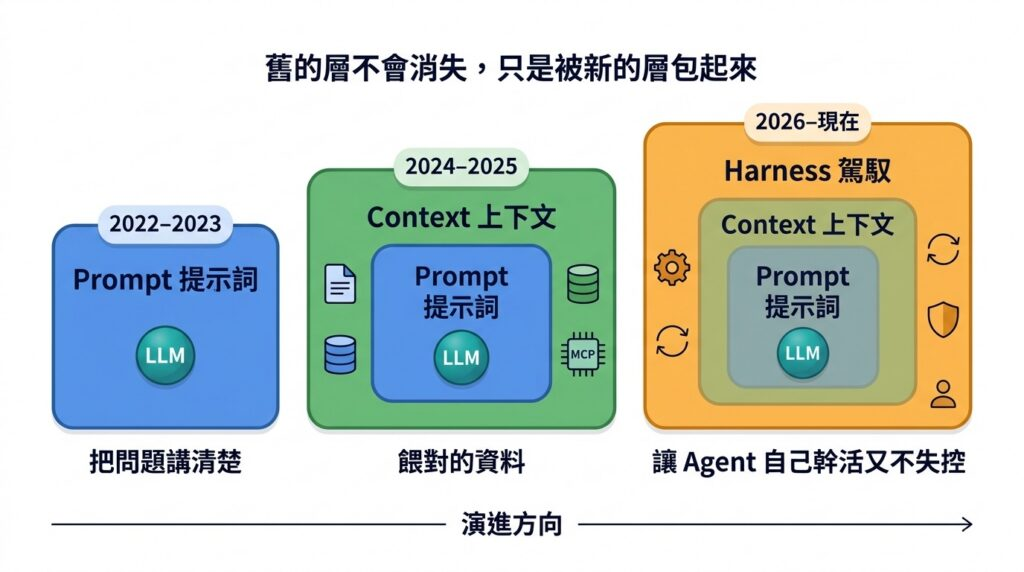
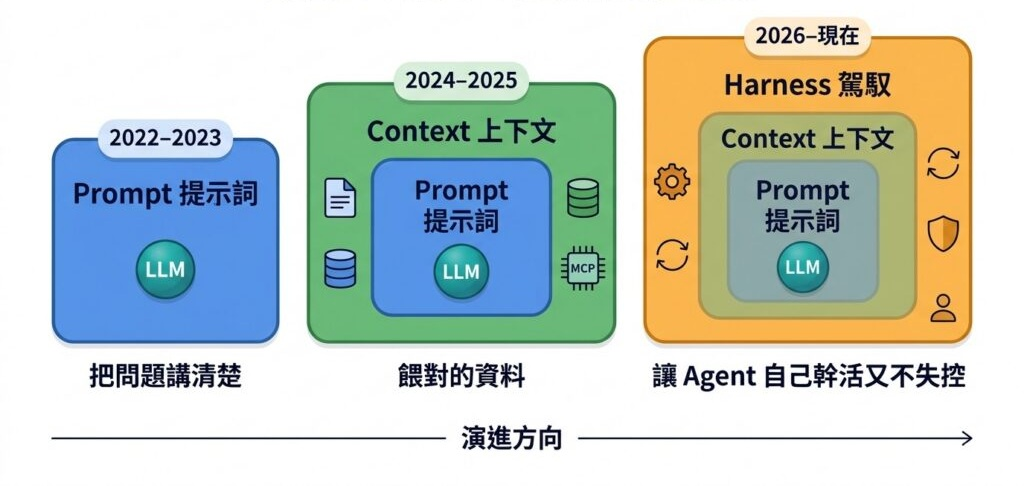
Refine class00

diff --git a/Class00_Handout.html b/Class00_Handout.html
@@ -37,22 +37,22 @@
 
 <h2>為什麼有些工程師離不開 AI，而有些還覺得沒用？</h2><div class="slide-body">
 
-<p>請先問問自己，以下哪個觀點你認同？</p>
+<p>你是否有以下的想法與疑惑？</p>
 <ul>
 <li>AI 會幻覺，所以還不能信任</li>
-<li>AI 輸出不穩定，所以結果靠運氣</li>
+<li>AI 輸出不穩定，所以成果靠運氣</li>
 <li>AI 就是聊天，不需要特別學</li>
-<li>想 Prompt 比自己寫還花時間</li>
+<li>AI 是來搶我工作的</li>
 </ul>
 <hr style="margin: 20px 0; border-color: var(--border-color);"/>
-<p><strong>🔑 核心觀念：心智模型演進</strong></p>
+<p><strong>🔑 心智模型須隨著AI發展演進</strong></p>
 <div class="comparison-grid" style="margin-top: 15px;">
 <div class="comparison-card" style="padding: 15px;">
-<h3 style="text-align: center;">2024 年</h3>
+<h3 style="text-align: center;">2024 年以前</h3>
 <p style="text-align: center;">模型參數量受限，僅依賴訓練資料。<br/>缺乏獲取外在資訊的手段，<br/><strong>幻覺嚴重，且幾乎只能聊天。</strong></p>
 </div>
 <div class="comparison-card highlight-card" style="padding: 15px;">
-<h3 style="text-align: center;">2026 年</h3>
+<h3 style="text-align: center;">2025 年以後</h3>
 <p style="text-align: center;">基礎設施成熟，模型能力差異縮小。<br/>模型本身的影響逐漸降低，<br/><strong>成效關鍵轉移至使用者身上。</strong></p>
 </div>
 </div>
@@ -74,12 +74,12 @@
 <li>網路封包遺失</li>
 <li>垃圾輸入資料等</li>
 </ul>
-<p style="color: var(--primary-color); margin-top: 20px;"><em>👉 未來課程重點：如何驗證 AI 的產出。</em></p>
+<p style="color: var(--primary-color); margin-top: 20px;"><em>👉 未來核心課題：如何驗證與保證 AI 的產出。</em></p>
 </div></div>
 <!-- Slide 3: Misconception 2 -->
 <div class="card top-title-layout" id="slide3">
 
-<h2>誤解二： AI 非確定性，所以結果靠運氣</h2><div class="slide-body">
+<h2>誤解二： AI 非確定性，所以品質看運氣</h2><div class="slide-body">
 
 <p>我們習慣「Input ➔ Output 永遠一致」。但如果把需求丟給三個資深工程師，其實也會得到三種不同解法。</p>
 <blockquote style="margin: 15px 0;">
@@ -98,9 +98,11 @@
 
 <h2>誤解三： AI 就是聊天，不需要學</h2><div class="slide-body">
 
-<p>AI 的介面看起來太簡單了（輸入中文 ➔ 拿到答案）。</p>
-<p>如果真的只是聊天，為什麼同一個模型，有人效率提升數倍，有人覺得根本沒用？</p>
-<p><strong>差異通常不在模型，而在使用者。</strong></p>
+<p>AI 的介面看起來太簡單了（輸入自然語言 ➔ 拿到答案）。但如果真的只是聊天，為什麼同一個模型，有人效率提升數倍，有人覺得根本沒用？</p>
+<blockquote style="margin: 15px 0;">
+<p><strong>工程師需要用工程思維去使用AI</strong></p>
+<p><s>跟AI聊天已經是連你阿嬤都會的技能了</s></p>
+</blockquote>
 <div style="text-align: center; margin-top: 20px;">
 <img src="Resources/Images/PromptContextHarness.jpeg" alt="超越 Prompt Engineering，學習 Context Engineering" style="max-height: 380px; max-width: 100%; border-radius: 8px;"/>
 </div>
@@ -108,7 +110,7 @@
 <!-- Slide 5: Misconception 4 -->
 <div class="card top-title-layout" id="slide5">
 
-<h2>誤解四： 想 Prompt 比自己做還慢</h2><div class="slide-body">
+<h2>誤解四： 寫Prompt、AI執行都需要時間，比自己做還慢</h2><div class="slide-body">
 
 <p>隱含錯誤假設：<strong>AI 的工作模式應該跟人類一模一樣</strong>。</p>
 <p>事實上，AI 特別擅長：</p>
@@ -119,6 +121,7 @@
 <li><strong>多個 AI Agent 同時執行不同任務</strong></li>
 </ul>
 <p>找一個自己已經知道答案的問題考 AI，就像找怪手來跟你比拿筷子。</p>
+<p>思考自己是否用錯方法，有沒有用在對的地方。</p>
 </div></div>
 <!-- Slide 6: Misconception 5 -->
 <div class="card comparison-layout" id="slide6">
@@ -127,17 +130,23 @@
 
 <p>AI 不是要取代原有工作流程或我們的工作，而是要來替原本的工作<strong>提升價值與效率</strong>。</p>
 
-<div class="comparison-grid" style="margin-top: 20px;">
+<div style="display: flex; justify-content: center; align-items: center; margin-top: 15px; gap: 40px; font-size: 3.5em; color: var(--accent-color); font-weight: bold;">
+<span>↙</span>
+<img src="Resources/Images/naruto-normal.png" alt="正常狀態" style="max-height: 110px; border-radius: 8px; object-fit: cover; box-shadow: 0 4px 12px rgba(0,0,0,0.3);"/>
+<span>↘</span>
+</div>
+
+<div class="comparison-grid" style="margin-top: 15px;">
 <div class="comparison-card">
 <h3 style="text-align: center;">❌ 並不是取代一切</h3>
-<div style="text-align: center; margin-top: 15px;">
-<img src="Resources/Images/Naruto_Seduce.jpg" alt="取代" style="max-height: 260px; max-width: 100%; border-radius: 8px; object-fit: cover;"/>
+<div style="text-align: center; margin-top: 15px; width: 100%;">
+<img src="Resources/Images/Naruto_Seduce.jpg" alt="取代" style="max-height: 250px; width: 100%; border-radius: 8px; object-fit: cover; box-shadow: 0 4px 12px rgba(0,0,0,0.3);"/>
 </div>
 </div>
 <div class="comparison-card highlight-card">
 <h3 style="text-align: center;">✅ 而是多個分身協助</h3>
-<div style="text-align: center; margin-top: 15px;">
-<img src="Resources/Images/Naruto_Clone.jfif" alt="分身" style="max-height: 260px; max-width: 100%; border-radius: 8px; object-fit: cover;"/>
+<div style="text-align: center; margin-top: 15px; width: 100%;">
+<img src="Resources/Images/Naruto_Clone.jfif" alt="分身" style="max-height: 250px; width: 100%; border-radius: 8px; object-fit: cover; box-shadow: 0 4px 12px rgba(0,0,0,0.3);"/>
 </div>
 </div>
 </div>
@@ -158,8 +167,8 @@
 <h3>新模型</h3>
 <p>AI 是一個能力很強，但需要管理與引導的<br/><strong>工程系統</strong></p>
 </div></div><blockquote style="margin-top: 20px;">
-<p>如果你把 AI 當聊天機器人，你會得到聊天機器人的價值。</p>
-<p style="color: var(--primary-color);"><strong>如果你把 AI 當工程工具，你會得到工程工具的價值。</strong></p>
+<p>💪這系列訓練的目標:</p>
+<p style="color: var(--primary-color);"><strong>能夠找出AI的問題並予以解決，且能設計出更穩定有效的系統</strong>，而非單純將錯誤推到AI身上</p>
 </blockquote></div>
 <div class="footer">PDD3 AI Training Series - Wanin</div>
 </div>